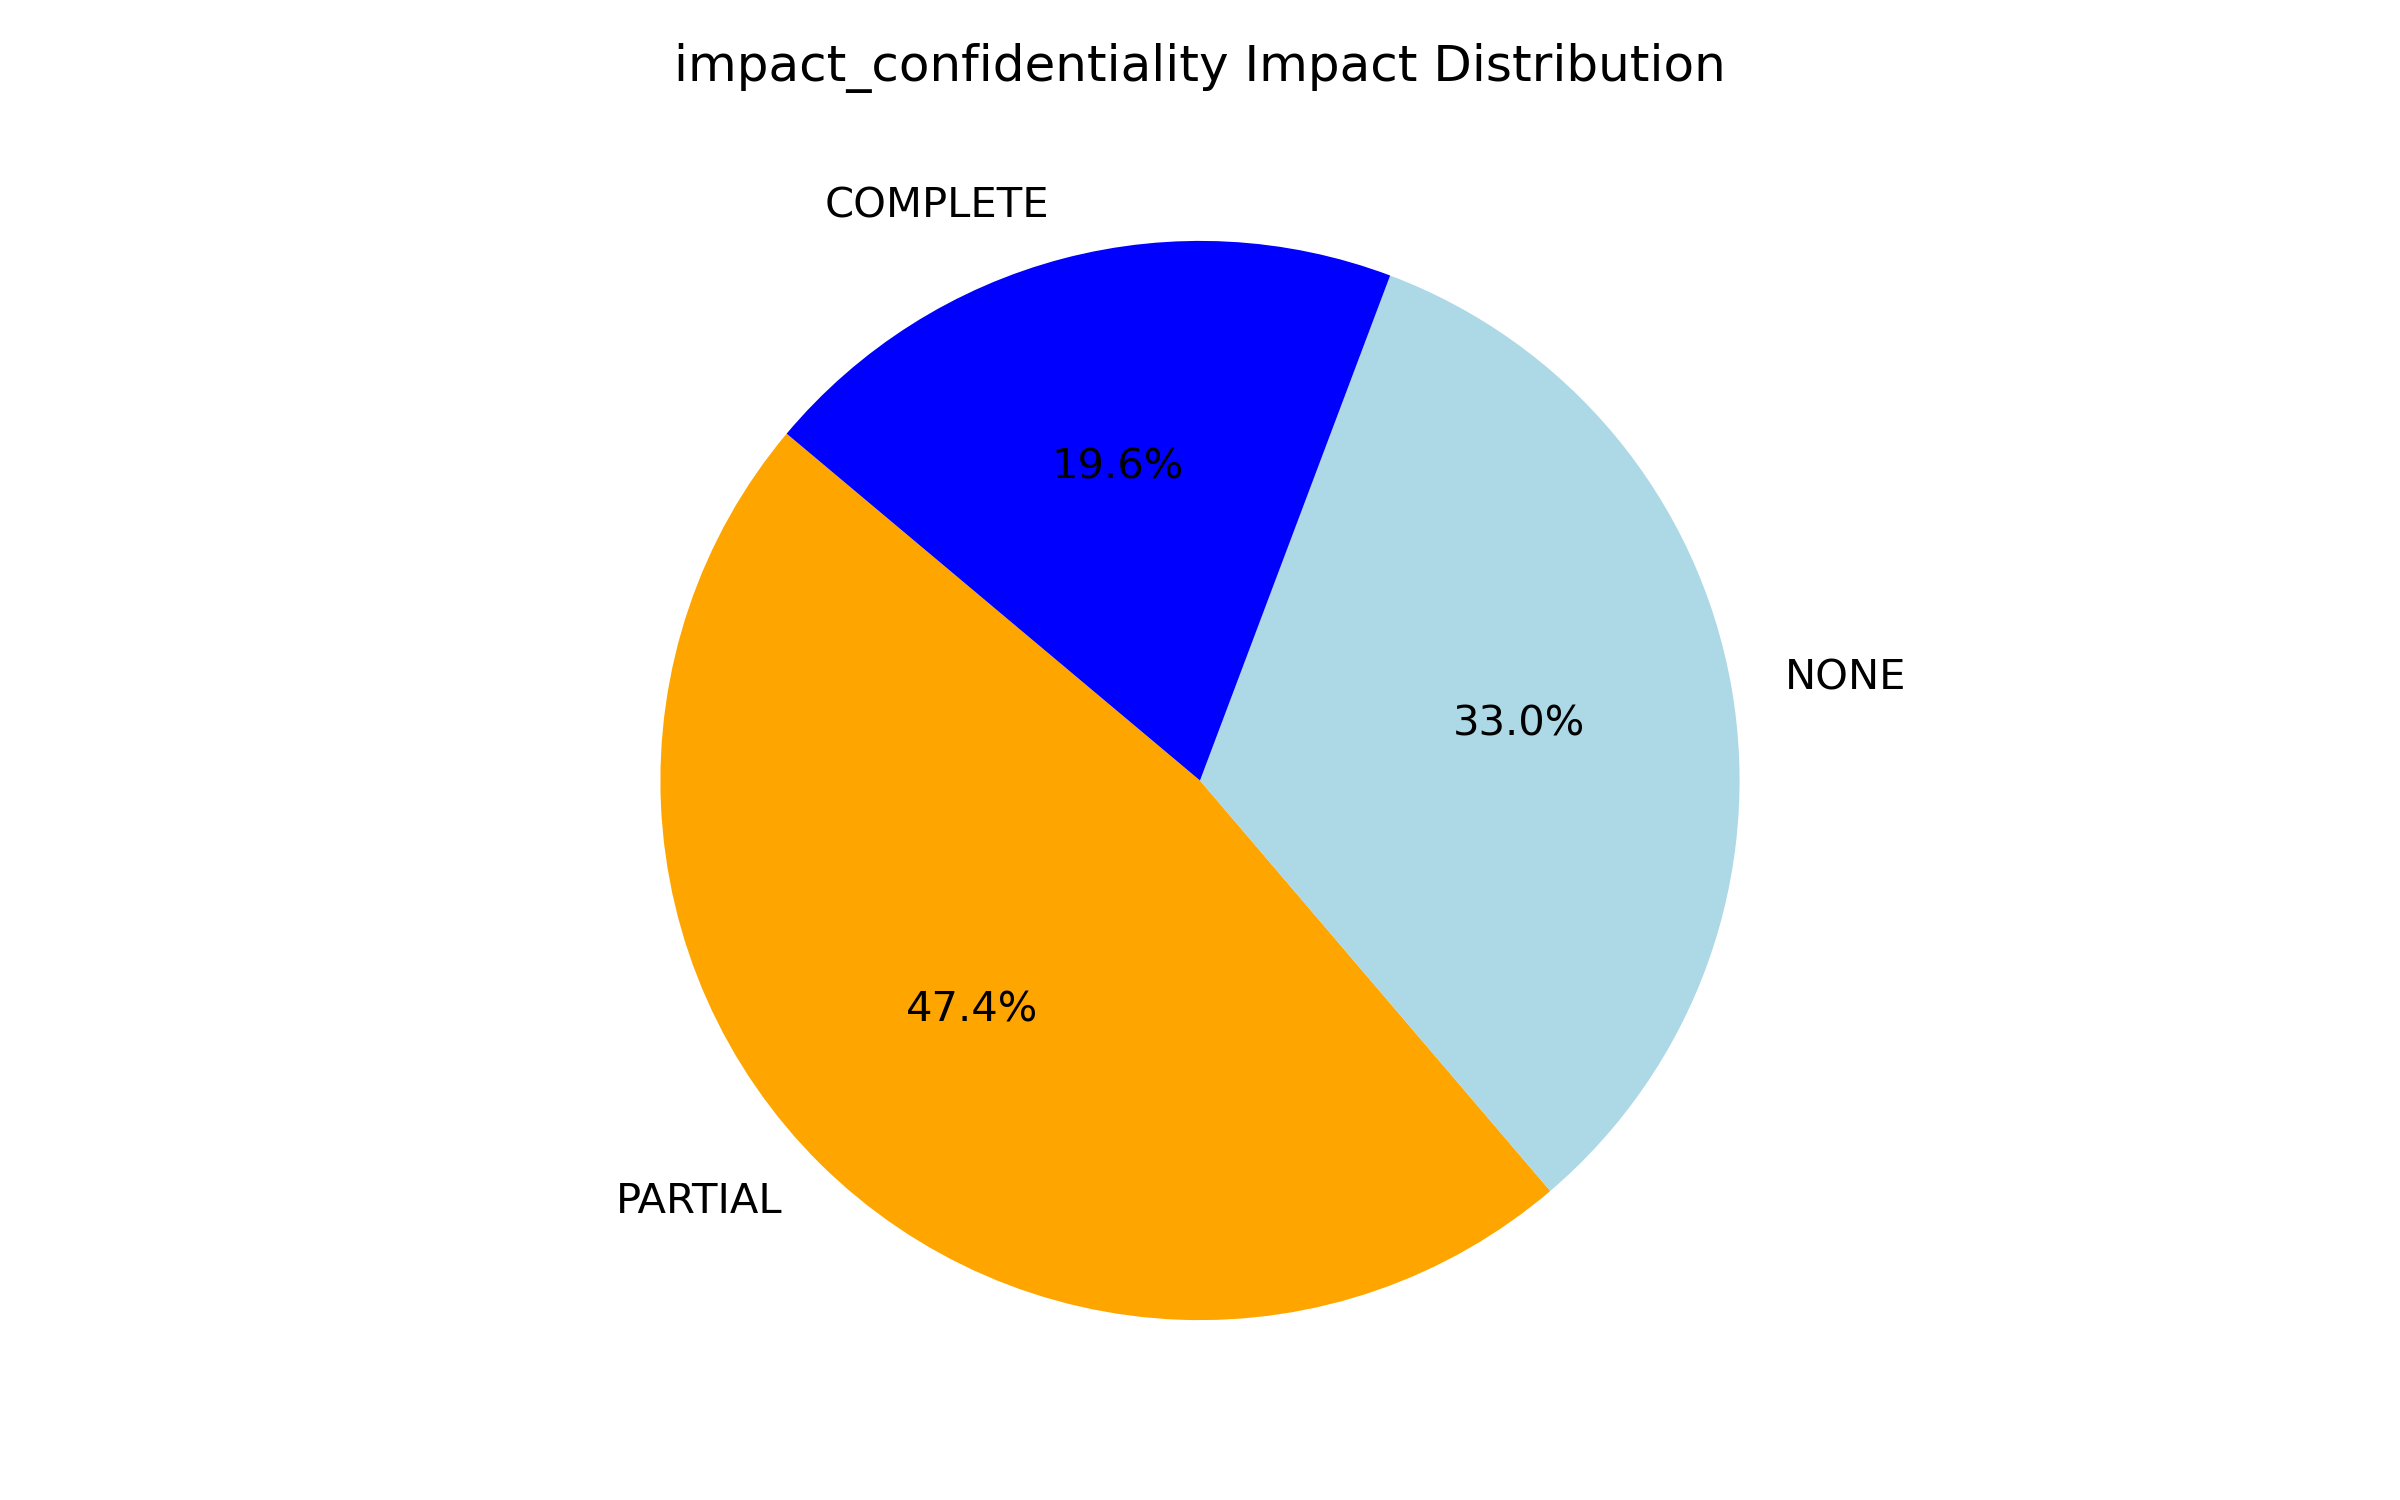
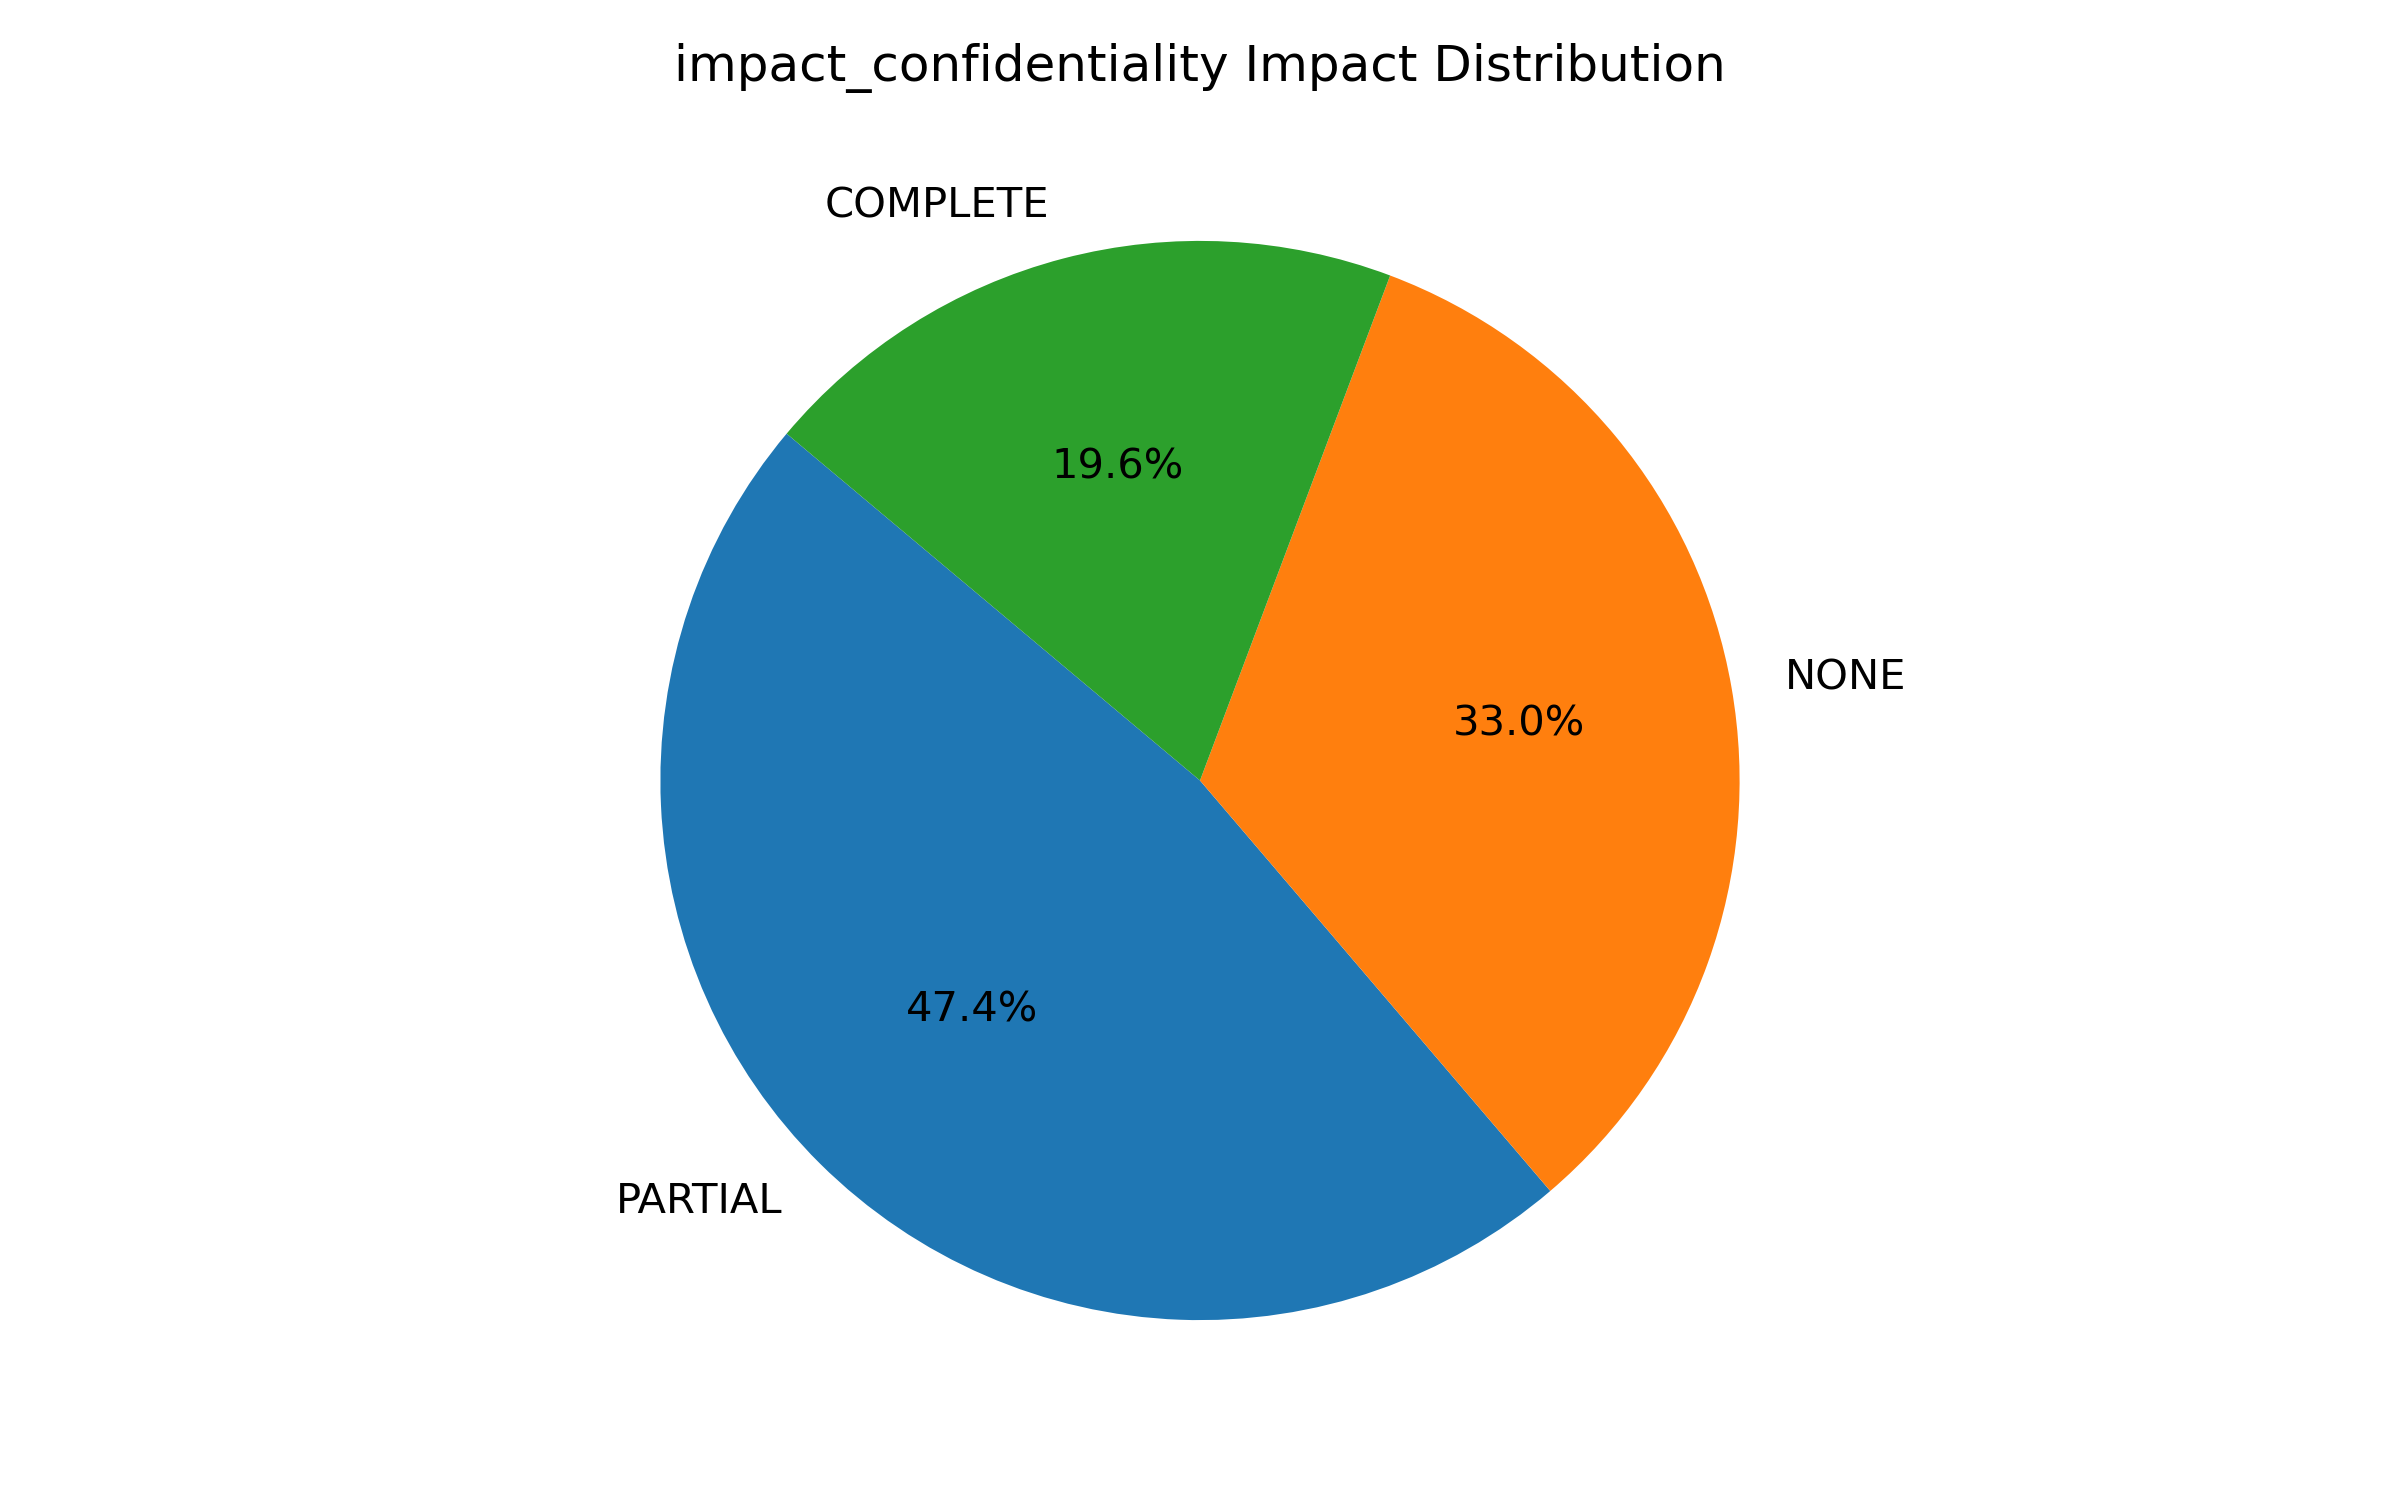
week 5

Changed region(s): [[0.25, 0.1533, 0.75, 0.8893]]

diff --git a/cve_parser.py b/cve_parser.py
@@ -68,13 +68,12 @@ def impact_parse(cve_data):
         print(impact_counts)
 
         # Plotting
-        colors = ['orange', 'lightblue', 'blue']
+        #colors = ['orange', 'lightblue', 'blue']
         plt.figure(figsize=(8, 5))
         plt.pie(impact_counts['Count'], 
                 labels=impact_counts[impact], 
                 autopct='%1.1f%%', 
-                startangle=140,
-                colors=colors)
+                startangle=140)
 
         plt.title(f'{impact} Impact Distribution')
         plt.grid(axis='y', linestyle='--', alpha=0.5)
@@ -101,8 +100,8 @@ def cves_show(cves_per_year):
     plt.title('CVEs Over Time')
     plt.xlabel('Years')
     plt.ylabel('Number of CVEs')
-    plt.grid(axis='y', linestyle='--', alpha=0.5)  # Improved readability
-    plt.xticks(rotation=45, ha='right')  # Rotate labels for readability
+    plt.grid(axis='y', linestyle='--', alpha=0.5)  
+    plt.xticks(rotation=45, ha='right')
 
     # Save the figure
     plt.tight_layout()
@@ -112,7 +111,7 @@ def cves_show(cves_per_year):
     plt.show()
 
 def impact_parse_grouped(cve_data):
-    """Draw a grouped bar chart comparing impact levels across dimensions."""
+    # Draw a grouped bar chart comparing impact levels across dimensions
 
     import numpy as np
 

diff --git a/bivariate_analysis.py b/bivariate_analysis.py
@@ -1,0 +1,43 @@
+import pandas as pd
+import numpy as np
+import matplotlib.pyplot as plt
+
+# Import functions from other files
+from dataset_loader import load_data
+
+
+
+def main():
+    # Main execution function
+    print("\n\n")
+    print("Analysis and Reporting Module\n")
+    print("    ----------------------     ")
+
+    # Load the data
+    cve, products, vendors = load_data()
+
+    # Convert 'pub_date' to datetime and extract year
+    cve['pub_date'] = pd.to_datetime(cve['pub_date'], errors='coerce')
+    cve['pub_year'] = cve['pub_date'].dt.year
+
+    cve = cve.dropna(subset=['cvss', 'pub_year'])
+
+    # Scatter plot: pub_year vs cvss
+    plt.scatter(cve['pub_year'], cve['cvss'])
+    plt.title('Scatter Diagram: CVSS Score vs Publication Year')
+    plt.xlabel('Publication Year')
+    plt.ylabel('CVSS Score')
+    plt.savefig('./figures/scatter_pub_year_vs_cvss.png')
+    plt.show()
+
+    # Pearson correlation
+    correlation = cve[['pub_year', 'cvss']].corr(method='pearson')
+    print("\nPearson Correlation between publication year and CVSS score:")
+    print(correlation)
+
+    # Cleanup
+    del cve, products, vendors
+
+# Entry Point
+if __name__ == "__main__":
+    main()

diff --git a/cvss_categoriser.py b/cvss_categoriser.py
@@ -32,10 +32,10 @@ def cvss_statistics(cve_df):
 
 def cvss_show(cvss_counts):
     # draw the figure and save it in figures folder
-    colors = ['orange', 'yellow', 'skyblue', 'blue']
+    #colors = ['orange', 'yellow', 'skyblue', 'blue']
         
     plt.figure(figsize=(8, 5))
-    plt.pie(cvss_counts['Count'], labels=cvss_counts['CVSS Category'], autopct='%1.1f%%', startangle=140, colors=colors)
+    plt.pie(cvss_counts['Count'], labels=cvss_counts['CVSS Category'], autopct='%1.1f%%', startangle=140)
 
     plt.title('CVSS Score Distribution')
     plt.xlabel('CVSS Category')

diff --git a/univariate_analysis.py b/univariate_analysis.py
@@ -14,7 +14,7 @@ def main():
     print("    ----------------------     ")
 
     # Load the data
-    cve, products, vendor_product, vendors = load_data()
+    cve, products, vendors = load_data()
 
     # Debugging: print the cve table info before processing the cvss values
     #print(cve.info())
@@ -62,7 +62,7 @@ def main():
     plt.show()
 
     # Cleanup
-    del cve, products, vendor_product, vendors
+    del cve, products, vendors
 
 # Entry Point
 if __name__ == "__main__":

diff --git a/heatmap.py b/heatmap.py
@@ -6,7 +6,7 @@ import seaborn as sns
 from dataset_loader import load_data
 
 # Load the data
-cve, products, vendor_product, vendors = load_data()
+cve, products, vendors = load_data()
 
 # Ensure required columns exist before mapping
 required_columns = ['cvss', 'impact_availability', 'impact_confidentiality', 'impact_integrity']

diff --git a/main.py b/main.py
@@ -55,7 +55,7 @@ def main():
     print(products.columns)
     vulnerable_product_parser(products)
     # Cleanup
-    del cve, products, vendor_product, vendors, cvss_counts
+    del cve, products, vendors, cvss_counts
 
 # Entry Point
 if __name__ == "__main__":

diff --git a/README.md b/README.md
@@ -97,6 +97,40 @@ This ensures the resulting dataset is reliable and suitable for statistical anal
 
 ---
 
+## **How to Run the Project**
+
+To run the CVE Analysis and Reporting System locally, follow these steps:
+
+1. **Clone the repository**
+   ```bash
+   git clone https://github.com/MKamalll/analysis-report.git
+   cd analysis-report
+   ```
+
+2. **Set up a virtual environment (optional)**
+   ```bash
+   python -m venv venv
+   source venv/bin/activate
+   ```
+
+3. **Install dependencies**
+   ```bash
+   pip install -r requirements.txt
+   ```
+
+4. **Prepare the dataset**
+   Ensure that the dataset CSV files (`cve.csv`, `products.csv`, `vendors.csv`, etc.) are placed inside the `/dataset` directory.
+
+5. **Run the analysis**
+   ```bash
+   python main.py
+   ```
+
+6. **View the outputs**
+   Generated figures and outputs will be saved to the `/figures` directory and can be reviewed for analysis and report inclusion.
+
+---
+
 ## **GitHub Repository**
 
 The complete source code, dataset references, analysis scripts, and documentation are hosted on GitHub.
